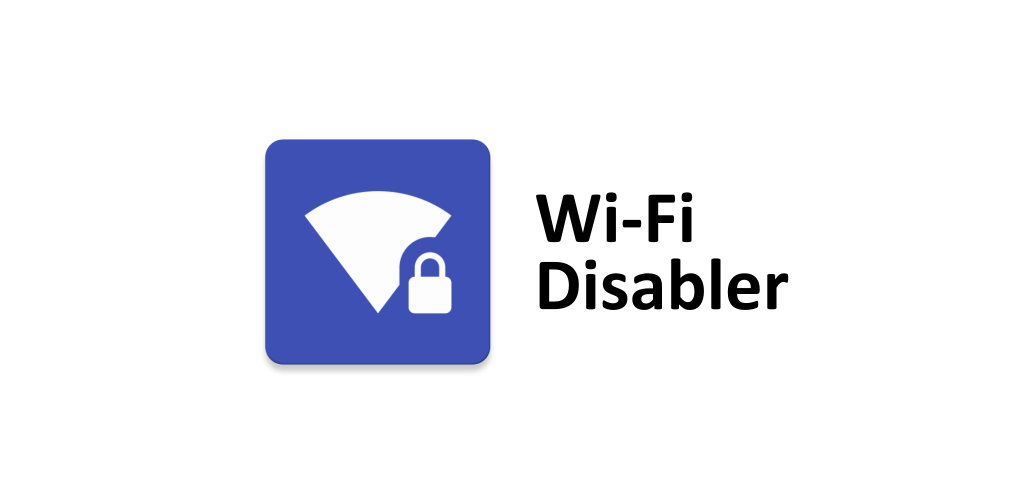
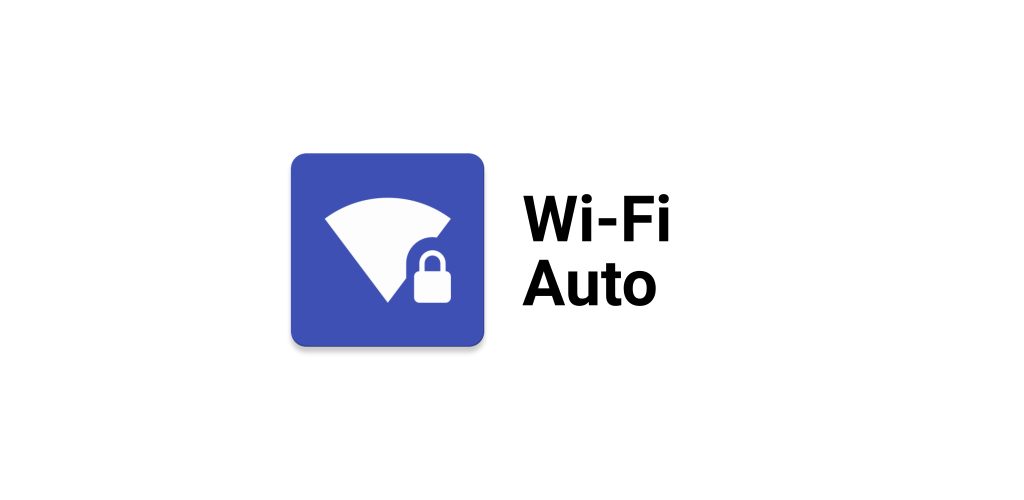
Rename project to wifiauto

Changed region(s): [[0.25, 0.27, 0.7812, 0.75]]

diff --git a/app/src/androidTest/java/fr/alexandreroman/wifiauto/ExampleInstrumentedTest.kt b/app/src/androidTest/java/fr/alexandreroman/wifiauto/ExampleInstrumentedTest.kt
@@ -1,4 +1,4 @@
-package fr.alexandreroman.wifidisabler
+package fr.alexandreroman.wifiauto
 
 import android.support.test.InstrumentationRegistry
 import android.support.test.runner.AndroidJUnit4
@@ -19,6 +19,6 @@ class ExampleInstrumentedTest {
     fun useAppContext() {
         // Context of the app under test.
         val appContext = InstrumentationRegistry.getTargetContext()
-        assertEquals("fr.alexandreroman.wifidisabler", appContext.packageName)
+        assertEquals("fr.alexandreroman.wifiauto", appContext.packageName)
     }
 }

diff --git a/app/src/main/java/fr/alexandreroman/wifiauto/Utils.kt b/app/src/main/java/fr/alexandreroman/wifiauto/Utils.kt
@@ -14,13 +14,13 @@
  * limitations under the License.
  */
 
-package fr.alexandreroman.wifidisabler
+package fr.alexandreroman.wifiauto
 
 import android.content.Context
 import android.content.SharedPreferences
 
 val Context.sharedPreferencesName: String
-    get() = "wifidisabler"
+    get() = "wifiauto"
 
 val Context.sharedPreferences: SharedPreferences
     get() = getSharedPreferences(this.sharedPreferencesName, Context.MODE_PRIVATE)

diff --git a/app/src/main/java/fr/alexandreroman/wifiauto/MainActivity.kt b/app/src/main/java/fr/alexandreroman/wifiauto/MainActivity.kt
@@ -14,7 +14,7 @@
  * limitations under the License.
  */
 
-package fr.alexandreroman.wifidisabler
+package fr.alexandreroman.wifiauto
 
 import android.os.Bundle
 import android.support.v7.app.AppCompatActivity

diff --git a/app/src/main/java/fr/alexandreroman/wifiauto/BootListener.kt b/app/src/main/java/fr/alexandreroman/wifiauto/BootListener.kt
@@ -14,7 +14,7 @@
  * limitations under the License.
  */
 
-package fr.alexandreroman.wifidisabler
+package fr.alexandreroman.wifiauto
 
 import android.content.BroadcastReceiver
 import android.content.Context

diff --git a/app/src/main/java/fr/alexandreroman/wifiauto/MonitoringService.kt b/app/src/main/java/fr/alexandreroman/wifiauto/MonitoringService.kt
@@ -14,7 +14,7 @@
  * limitations under the License.
  */
 
-package fr.alexandreroman.wifidisabler
+package fr.alexandreroman.wifiauto
 
 import android.app.job.JobInfo
 import android.app.job.JobParameters

diff --git a/app/src/main/java/fr/alexandreroman/wifiauto/SettingsFragment.kt b/app/src/main/java/fr/alexandreroman/wifiauto/SettingsFragment.kt
@@ -14,7 +14,7 @@
  * limitations under the License.
  */
 
-package fr.alexandreroman.wifidisabler
+package fr.alexandreroman.wifiauto
 
 import android.content.Context
 import android.content.Intent

diff --git a/app/src/main/java/fr/alexandreroman/wifiauto/SetupService.kt b/app/src/main/java/fr/alexandreroman/wifiauto/SetupService.kt
@@ -14,7 +14,7 @@
  * limitations under the License.
  */
 
-package fr.alexandreroman.wifidisabler
+package fr.alexandreroman.wifiauto
 
 import android.content.Context
 import android.content.Intent

diff --git a/app/src/main/java/fr/alexandreroman/wifiauto/MyApp.kt b/app/src/main/java/fr/alexandreroman/wifiauto/MyApp.kt
@@ -14,7 +14,7 @@
  * limitations under the License.
  */
 
-package fr.alexandreroman.wifidisabler
+package fr.alexandreroman.wifiauto
 
 import android.app.Application
 import android.os.StrictMode

diff --git a/app/src/test/java/fr/alexandreroman/wifiauto/ExampleUnitTest.kt b/app/src/test/java/fr/alexandreroman/wifiauto/ExampleUnitTest.kt
@@ -1,4 +1,4 @@
-package fr.alexandreroman.wifidisabler
+package fr.alexandreroman.wifiauto
 
 import org.junit.Test
 
